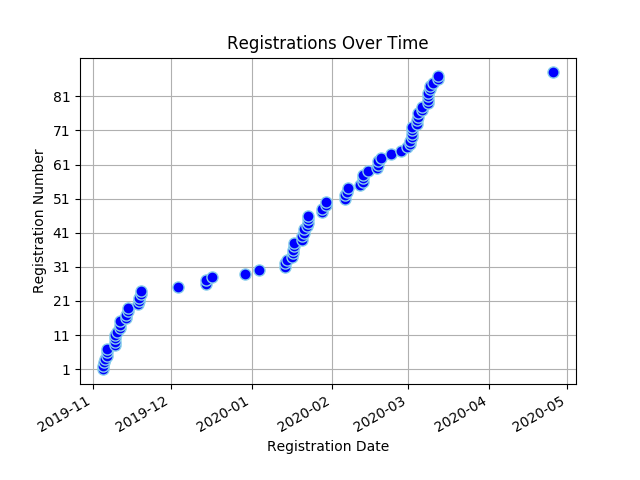
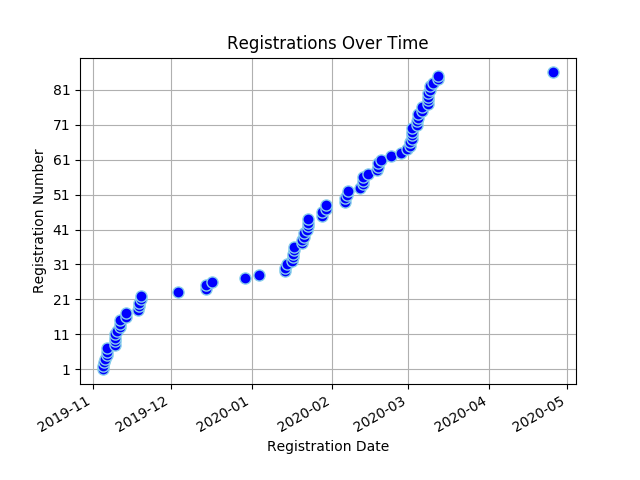
Registree stats backup on Tue May  5 13:25:11 SAST 2020

Changed region(s): [[0.0625, 0.1875, 0.875, 0.75], [0.0625, 0.3125, 0.125, 0.3438]]

diff --git a/content/registrees/_index.md b/content/registrees/_index.md
@@ -3,7 +3,7 @@ title: Registration Stats
 draft: false
 ---
 
-<ul><li><strong>Number of Registrees</strong>: 88</li>
+<ul><li><strong>Number of Registrees</strong>: 86</li>
 
 <li><strong>Number of Clubs</strong>: 43</li>
 
@@ -30,6 +30,6 @@ draft: false
         </tr>
     </thead>
     <tbody>
-<tr><td>Linda Anderson</td><td>George</td></tr><tr><td>Tayebwa Smith Bamwesigye</td><td>Butterworth</td></tr><tr><td>Karl Bands</td><td>Helderkruin</td></tr><tr><td>Jonquille Bands</td><td>Helderkruin</td></tr><tr><td>Valencia Beukes</td><td>Kuilsriver</td></tr><tr><td>Annette Bothma</td><td>Fish Hoek</td></tr><tr><td>Jose Braga Borges</td><td>Malmesbury</td></tr><tr><td>Lynnette Virginia Christians</td><td>Cape Of Good Hope</td></tr><tr><td>Desiree Du Toit</td><td>Ramsgate</td></tr><tr><td>Charles Flanagan</td><td>Tokai</td></tr><tr><td>Julie Flanagan</td><td>Tokai</td></tr><tr><td>Bernd Gerhard</td><td>Wilro Park</td></tr><tr><td>Shirley Gerhard</td><td>Wilro Park</td></tr><tr><td>Valerie Graham</td><td>Nelspruit</td></tr><tr><td>Michael Graham</td><td>Nelspruit</td></tr><tr><td>Victor Hawla</td><td>Krugersdorp</td></tr><tr><td>Loriane Hawla</td><td>(Partner in Service)</td></tr><tr><td>Barbara Haywood</td><td>Eden</td></tr><tr><td>Wendy Higgins</td><td>Wilro Park</td></tr><tr><td>Trevor Hobbs</td><td>North Durban</td></tr><tr><td>Avril Hobbs</td><td>North Durban</td></tr><tr><td>Jacqui Hocking</td><td>Midrand</td></tr><tr><td>Cliff Hocking</td><td>Midrand</td></tr><tr><td>Leslie Human</td><td>East London Port Rex</td></tr><tr><td>Akinyemi Ismaila Tunde</td><td>-</td></tr><tr><td>Dawid Jacobs</td><td>Durbanville</td></tr><tr><td>Jean Jacobs</td><td>Mitchells Plain</td></tr><tr><td>Brenda Joshua</td><td>Cape Of Good Hope</td></tr><tr><td>Pascal Kabangu</td><td>Cape Of Good Hope</td></tr><tr><td>Ian King</td><td>Alberton</td></tr><tr><td>Sandy King</td><td>Alberton</td></tr><tr><td>Zwaai Krüger</td><td>Sedgefield</td></tr><tr><td>Bevil Lakay</td><td>Mitchells Plain</td></tr><tr><td>Paula Lang</td><td>Gordons Bay</td></tr><tr><td>James Malcolm Lang</td><td>Gordons Bay</td></tr><tr><td>Lance Maytham</td><td>Bredasdorp</td></tr><tr><td>Roy Michas</td><td>Midrand</td></tr><tr><td>Dawn Michas</td><td>Midrand</td></tr><tr><td>Patrick Mills</td><td>Centurion</td></tr><tr><td>Bernice Mills</td><td>Centurion</td></tr><tr><td>Alain Moulounda</td><td>Cape Of Good Hope</td></tr><tr><td>Suzanne Murray</td><td>Vereeniging</td></tr><tr><td>Tillie Nel</td><td>Eden</td></tr><tr><td>Pieter Nel</td><td>George</td></tr><tr><td>Michael Newlands</td><td>Port Alfred</td></tr><tr><td>Ramona Nulliah</td><td>Durban Host</td></tr><tr><td>Gary Nulliah</td><td>Durban Host</td></tr><tr><td>Teresa Pantoleon</td><td>Vereeniging</td></tr><tr><td>William Pfaff</td><td>North Durban</td></tr><tr><td>Patrick Pillay</td><td>Tygerberg Hills</td></tr><tr><td>Gavin Polkinghorne</td><td>Kensington</td></tr><tr><td>Tracey Polkinghorne</td><td>Kensington</td></tr><tr><td>Karin Preston</td><td>Durban South</td></tr><tr><td>Leon Ras</td><td>Swellendam</td></tr><tr><td>Mary-Anne Ras</td><td>Swellendam</td></tr><tr><td>Moira Rigby</td><td>Kingsburgh</td></tr><tr><td>David Rigby</td><td>Kingsburgh</td></tr><tr><td>Mark Rossouw</td><td>Tokai</td></tr><tr><td>Sharon Sampie</td><td>Bergvliet</td></tr><tr><td>Susanna Helena Smit</td><td>Centurion</td></tr><tr><td>Herman Smit</td><td>Swellendam</td></tr><tr><td>Berdine Smit</td><td>(Partner in Service)</td></tr><tr><td>Rochelle Smith</td><td>Cape Of Good Hope</td></tr><tr><td>Jeff Smith</td><td>Port Shepstone</td></tr><tr><td>Pierre Theron</td><td>Midrand</td></tr><tr><td>Moira Theron</td><td>Midrand</td></tr><tr><td>Diane Townsend</td><td>Benoni Lakes</td></tr><tr><td>Kendyl Townsend</td><td>Benoni Lakes</td></tr><tr><td>Alex Tshikala</td><td>Athlone</td></tr><tr><td>Alistair Tuckett</td><td>Roodepoort Clearwater Cyber</td></tr><tr><td>Rowan Tuckett</td><td>Roodepoort Clearwater Cyber</td></tr><tr><td>Neville Van Rensburg</td><td>Moorreesburg</td></tr><tr><td>Joyce Wilcocks</td><td>Pretoria Jakaranda</td></tr><tr><td>Richard Williams</td><td>(Partner in Service)</td></tr><tr><td>Owolabi Williams Monzur</td><td>Badagry</td></tr><tr><td>Geila Wills</td><td>Cape Town</td></tr><tr><td>Patricia Wilson</td><td>Kingsburgh</td></tr><tr><td>Judy Young</td><td>Durbanville</td></tr><tr><td>Sydney van Heerden</td><td>Wilro Park</td></tr><tr><td>Sandy van Heerden</td><td>Wilro Park</td></tr><tr><td>Lindie van Wyk</td><td>Pretoria Jakaranda</td></tr><tr><td>Vicki van Wyk</td><td>North Durban</td></tr><tr><td>Kim van Wyk</td><td>North Durban</td></tr><tr><td>Martha Maria van der Merwe</td><td>Malmesbury</td></tr><tr><td>Brian von der Decken</td><td>King William's Town</td></tr><tr><td>Janet von der Decken</td><td>(Partner in Service)</td></tr><tr><td>Andrew von der Decken</td><td>King William's Town</td></tr><tr><td>Ann von der Decken</td><td>King William's Town</td></tr>
+<tr><td>Linda Anderson</td><td>George</td></tr><tr><td>Tayebwa Smith Bamwesigye</td><td>Butterworth</td></tr><tr><td>Karl Bands</td><td>Helderkruin</td></tr><tr><td>Jonquille Bands</td><td>Helderkruin</td></tr><tr><td>Valencia Beukes</td><td>Kuilsriver</td></tr><tr><td>Annette Bothma</td><td>Fish Hoek</td></tr><tr><td>Jose Braga Borges</td><td>Malmesbury</td></tr><tr><td>Lynnette Virginia Christians</td><td>Cape Of Good Hope</td></tr><tr><td>Desiree Du Toit</td><td>Ramsgate</td></tr><tr><td>Bernd Gerhard</td><td>Wilro Park</td></tr><tr><td>Shirley Gerhard</td><td>Wilro Park</td></tr><tr><td>Valerie Graham</td><td>Nelspruit</td></tr><tr><td>Michael Graham</td><td>Nelspruit</td></tr><tr><td>Victor Hawla</td><td>Krugersdorp</td></tr><tr><td>Loriane Hawla</td><td>(Partner in Service)</td></tr><tr><td>Barbara Haywood</td><td>Eden</td></tr><tr><td>Wendy Higgins</td><td>Wilro Park</td></tr><tr><td>Trevor Hobbs</td><td>North Durban</td></tr><tr><td>Avril Hobbs</td><td>North Durban</td></tr><tr><td>Jacqui Hocking</td><td>Midrand</td></tr><tr><td>Cliff Hocking</td><td>Midrand</td></tr><tr><td>Leslie Human</td><td>East London Port Rex</td></tr><tr><td>Akinyemi Ismaila Tunde</td><td>-</td></tr><tr><td>Dawid Jacobs</td><td>Durbanville</td></tr><tr><td>Jean Jacobs</td><td>Mitchells Plain</td></tr><tr><td>Brenda Joshua</td><td>Cape Of Good Hope</td></tr><tr><td>Pascal Kabangu</td><td>Cape Of Good Hope</td></tr><tr><td>Ian King</td><td>Alberton</td></tr><tr><td>Sandy King</td><td>Alberton</td></tr><tr><td>Zwaai Krüger</td><td>Sedgefield</td></tr><tr><td>Bevil Lakay</td><td>Mitchells Plain</td></tr><tr><td>Paula Lang</td><td>Gordons Bay</td></tr><tr><td>James Malcolm Lang</td><td>Gordons Bay</td></tr><tr><td>Lance Maytham</td><td>Bredasdorp</td></tr><tr><td>Roy Michas</td><td>Midrand</td></tr><tr><td>Dawn Michas</td><td>Midrand</td></tr><tr><td>Patrick Mills</td><td>Centurion</td></tr><tr><td>Bernice Mills</td><td>Centurion</td></tr><tr><td>Alain Moulounda</td><td>Cape Of Good Hope</td></tr><tr><td>Suzanne Murray</td><td>Vereeniging</td></tr><tr><td>Tillie Nel</td><td>Eden</td></tr><tr><td>Pieter Nel</td><td>George</td></tr><tr><td>Michael Newlands</td><td>Port Alfred</td></tr><tr><td>Ramona Nulliah</td><td>Durban Host</td></tr><tr><td>Gary Nulliah</td><td>Durban Host</td></tr><tr><td>Teresa Pantoleon</td><td>Vereeniging</td></tr><tr><td>William Pfaff</td><td>North Durban</td></tr><tr><td>Patrick Pillay</td><td>Tygerberg Hills</td></tr><tr><td>Gavin Polkinghorne</td><td>Kensington</td></tr><tr><td>Tracey Polkinghorne</td><td>Kensington</td></tr><tr><td>Karin Preston</td><td>Durban South</td></tr><tr><td>Leon Ras</td><td>Swellendam</td></tr><tr><td>Mary-Anne Ras</td><td>Swellendam</td></tr><tr><td>Moira Rigby</td><td>Kingsburgh</td></tr><tr><td>David Rigby</td><td>Kingsburgh</td></tr><tr><td>Mark Rossouw</td><td>Tokai</td></tr><tr><td>Sharon Sampie</td><td>Bergvliet</td></tr><tr><td>Susanna Helena Smit</td><td>Centurion</td></tr><tr><td>Herman Smit</td><td>Swellendam</td></tr><tr><td>Berdine Smit</td><td>(Partner in Service)</td></tr><tr><td>Rochelle Smith</td><td>Cape Of Good Hope</td></tr><tr><td>Jeff Smith</td><td>Port Shepstone</td></tr><tr><td>Pierre Theron</td><td>Midrand</td></tr><tr><td>Moira Theron</td><td>Midrand</td></tr><tr><td>Diane Townsend</td><td>Benoni Lakes</td></tr><tr><td>Kendyl Townsend</td><td>Benoni Lakes</td></tr><tr><td>Alex Tshikala</td><td>Athlone</td></tr><tr><td>Alistair Tuckett</td><td>Roodepoort Clearwater Cyber</td></tr><tr><td>Rowan Tuckett</td><td>Roodepoort Clearwater Cyber</td></tr><tr><td>Neville Van Rensburg</td><td>Moorreesburg</td></tr><tr><td>Joyce Wilcocks</td><td>Pretoria Jakaranda</td></tr><tr><td>Richard Williams</td><td>(Partner in Service)</td></tr><tr><td>Owolabi Williams Monzur</td><td>Badagry</td></tr><tr><td>Geila Wills</td><td>Cape Town</td></tr><tr><td>Patricia Wilson</td><td>Kingsburgh</td></tr><tr><td>Judy Young</td><td>Durbanville</td></tr><tr><td>Sydney van Heerden</td><td>Wilro Park</td></tr><tr><td>Sandy van Heerden</td><td>Wilro Park</td></tr><tr><td>Lindie van Wyk</td><td>Pretoria Jakaranda</td></tr><tr><td>Vicki van Wyk</td><td>North Durban</td></tr><tr><td>Kim van Wyk</td><td>North Durban</td></tr><tr><td>Martha Maria van der Merwe</td><td>Malmesbury</td></tr><tr><td>Brian von der Decken</td><td>King William's Town</td></tr><tr><td>Janet von der Decken</td><td>(Partner in Service)</td></tr><tr><td>Andrew von der Decken</td><td>King William's Town</td></tr><tr><td>Ann von der Decken</td><td>King William's Town</td></tr>
 </tbody>
 </table>

diff --git a/content/full_stats/_index.md b/content/full_stats/_index.md
@@ -17,34 +17,34 @@ draft: false
 <body>
 <h1 style="color: #000000;">Full Registration Stats</h1>
 <ul><li><strong>Number of Registrees</strong><ul>
-<li><strong>Total</strong>: 88</li>
-<li><strong>Lions</strong>: 84</li>
+<li><strong>Total</strong>: 86</li>
+<li><strong>Lions</strong>: 82</li>
 <li><strong>Partners In Service</strong>: 4</li>
 </ul>
 <li><strong>Number of Clubs</strong>: 43</li>
 <li><strong>Club With Most Attendees</strong>: Midrand (6 registrees)</li>
-<li><strong>Registrations</strong></li><ul><li><strong>Full</strong>: 85
+<li><strong>Registrations</strong></li><ul><li><strong>Full</strong>: 83
 <li><strong>Banquet</strong>: 1
 <li><strong>Convention</strong>: 2
 <li><strong>Theme</strong>: 1
 </ul><li><strong>Extra Items</strong></li><ul>
-<li><strong>Pins</strong>: 78
+<li><strong>Pins</strong>: 76
 </ul><li><strong>Extra Activities</strong></li><ul>
 <li><strong>MJF Lunch</strong>: 24
 <li><strong>PDG Breakfast</strong>: 21
 <li><strong>Sharks Board</strong>: 4
 <li><strong>Golf</strong>: 2
 <li><strong>Sight Seeing</strong>: 11
-<li><strong>Service Project</strong>: 16
+<li><strong>Service Project</strong>: 15
 <li><strong>Partner Program</strong>: 4
 </ul>
 <li><strong>Payment Details</strong></li><ul>
-<li><strong>Total Owed:</strong> R115265.00</li>
-<li><strong>Paid:</strong> R57955.00</li>
+<li><strong>Total Owed:</strong> R112585.00</li>
+<li><strong>Paid:</strong> R55275.00</li>
 <li><strong>Still Owed:</strong> R57310.00</li>
-<li><strong>Number of Attendees Who Have Paid in Full:</strong> 40 (45.45%)</li>
-<li><strong>Number of Attendees Who Have Paid in Part:</strong> 10 (11.36%)</li>
-<li><strong>Number of Attendees Who Haven't Paid Anything:</strong> 38 (43.18%)</li>
+<li><strong>Number of Attendees Who Have Paid in Full:</strong> 38 (44.19%)</li>
+<li><strong>Number of Attendees Who Have Paid in Part:</strong> 10 (11.63%)</li>
+<li><strong>Number of Attendees Who Haven't Paid Anything:</strong> 38 (44.19%)</li>
 </ul>
 <li><strong>Cancellations</strong></li><ul>
 <li>20-02-07 McCullough, David (reg number: 058)</li>
@@ -79,6 +79,8 @@ draft: false
 <li>20-05-02 Marron, Tony (reg number: 103)</li>
 <li>20-05-05 Maré, Beaulieu (reg number: 076)</li>
 <li>20-05-05 Maré, Nick  (reg number: 075)</li>
+<li>20-05-05 Flanagan, Charles (reg number: 024)</li>
+<li>20-05-05 Flanagan, Julie (reg number: 025)</li>
 </ul>
 <li><strong>Dietary Requirements</strong></li><ul>
 <li>Allergic to Shellfish</li>
@@ -221,28 +223,6 @@ StillOwed
 <td>1285.00</td>
 <td>0.00</td>
 <td>1285.00</td>
-</tr>
-
-    
-<tr style="background-color: lightgreen">
-<td>24</td>
-<td>Charles Flanagan</td>
-<td>Tokai</td>
-<td>ZC Charlie Flanagan</td>
-<td>1340.00</td>
-<td>1340.00</td>
-<td>0.00</td>
-</tr>
-
-    
-<tr style="background-color: lightgreen">
-<td>25</td>
-<td>Julie Flanagan</td>
-<td>Tokai</td>
-<td>Lion Jules Flanagan</td>
-<td>1340.00</td>
-<td>1340.00</td>
-<td>0.00</td>
 </tr>
 
     
